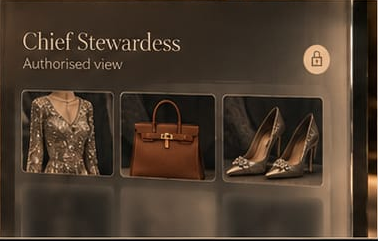
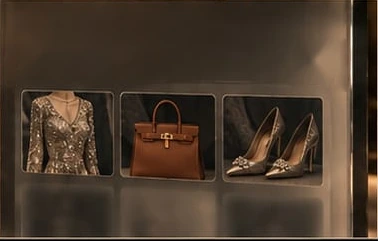
System page: privacy fixes, plain-language screen-reader text, consistent name
- Remove stray '19' slide number above the privacy heading
- Clean the baked-in text, lock and switches from the three privacy step
  images so the live labels sit on clear glass
- Privacy heading holds two lines at every width, sized to its column
- Screen-reader descriptions rewritten without internal language
- Visible body copy spells the name ZALLIA, as on the homepage

Claude-Session: https://claude.ai/code/session_01SkxJSMu7uYT2tgvXoR8Fk1

Changed region(s): [[0.0582, 0.1162, 0.4947, 0.2905], [0.7857, 0.1743, 0.873, 0.3195], [0.9021, 0.1743, 0.9312, 0.3776]]

diff --git a/system.html b/system.html
@@ -40,9 +40,9 @@
 <div class="intro-copy">
 <h1>Your collection.<br/>
 Understood and connected.</h1>
-<p>Discreet sensing connects Zallia to the collection itself. Its intelligence brings together location, care and your preferences—to curate pieces for your plans and coordinate their preparation.</p>
+<p>Discreet sensing connects ZALLIA to the collection itself. Its intelligence brings together location, care and your preferences—to curate pieces for your plans and coordinate their preparation.</p>
 </div>
-<figure aria-label="Illustrative connected collection: a watch in a city residence, tailoring aboard a yacht, and an heirloom at a country estate. Fine paths join their observations into one system; they do not show physical transport or live telemetry." class="system-intro-scene">
+<figure aria-label="Illustrative connected collection: a watch in a city residence, tailoring aboard a yacht and an heirloom at a country estate, joined into one system. The lines show connection, not pieces travelling." class="system-intro-scene">
 <div class="connected-worlds" data-connection-motion="worlds" data-motion-state="static">
 <div class="world-plates"><div class="world-scene world-residence"><img alt="A gold watch in a private city residence." class="" decoding="async" height="2048" loading="eager" sizes="(max-width: 600px) 42vw, (max-width: 1100px) 30vw, 25vw" src="assets/connected/residence-768.webp" srcset="assets/connected/residence-480.webp 480w, assets/connected/residence-768.webp 768w, assets/connected/residence-1024.webp 1024w, assets/connected/residence-1536.webp 1536w" width="1536"/><span aria-hidden="true" class="world-edge"></span></div><div class="world-scene world-yacht"><img alt="Ivory tailoring aboard a yacht, with the sea beyond." class="" decoding="async" height="2048" loading="eager" sizes="(max-width: 600px) 42vw, (max-width: 1100px) 30vw, 25vw" src="assets/connected/yacht-768.webp" srcset="assets/connected/yacht-480.webp 480w, assets/connected/yacht-768.webp 768w, assets/connected/yacht-1024.webp 1024w, assets/connected/yacht-1536.webp 1536w" width="1536"/><span aria-hidden="true" class="world-edge"></span></div><div class="world-scene world-heirloom"><img alt="An heirloom brooch in a country estate overlooking its garden." class="" decoding="async" height="2048" loading="eager" sizes="(max-width: 600px) 42vw, (max-width: 1100px) 30vw, 25vw" src="assets/connected/heirloom-768.webp" srcset="assets/connected/heirloom-480.webp 480w, assets/connected/heirloom-768.webp 768w, assets/connected/heirloom-1024.webp 1024w, assets/connected/heirloom-1536.webp 1536w" width="1536"/><span aria-hidden="true" class="world-edge"></span></div></div>
 <svg aria-hidden="true" class="connection-map" fill="none" viewbox="0 0 1000 640">
@@ -66,9 +66,9 @@ Understood and connected.</h1>
 <p class="section-label">Collection awareness</p>
 <h2 id="physical-title">A collection<br/>
 that keeps up.</h2>
-<p>Discreet sensing, integrated at key points within your spaces, recognises connected pieces as they move. Zallia brings location, recorded handovers and care history into one living record.</p>
+<p>Discreet sensing, integrated at key points within your spaces, recognises connected pieces as they move. ZALLIA brings location, recorded handovers and care history into one living record.</p>
 </div>
-<figure aria-label="Illustrative film: jewellery is lifted from its case; Zallia shows a new observation in the dressing room. Adapted licensed footage and example collection records, not a live installation. The observation does not establish who holds the piece or where it goes next." class="system-visual system-observation awareness-cinema" data-film-state="static" data-scene="connection">
+<figure aria-label="Illustrative film: a piece of jewellery is lifted from its case and Zallia records a new observation in the dressing room. The record shows where the piece was seen, not who holds it." class="system-visual system-observation awareness-cinema" data-film-state="static" data-scene="connection">
 <div class="awareness-shot">
 <img alt="Velvet jewellery cases after a piece has been lifted and the hands have left the view." class="awareness-poster" height="1080" loading="lazy" sizes="(max-width: 600px) 600px, 60vw" src="assets/awareness/settled-1920.webp" srcset="assets/awareness/settled-960.webp 960w, assets/awareness/settled-1920.webp 1920w" width="1920"/>
 <video aria-hidden="true" class="awareness-video" data-desktop="assets/awareness/handling-1080.mp4" data-mobile="assets/awareness/handling-540.mp4" muted="" playsinline="" preload="none" tabindex="-1"></video>
@@ -101,9 +101,9 @@ In view.</strong>
 <p class="section-label">Environmental care</p>
 <h2 id="environment-title">Attentive to<br/>
 its surroundings.</h2>
-<p>Discreet temperature and humidity sensors watch over your collection’s surroundings. When conditions need attention, Zallia brings the change—and its location—to your team.</p>
+<p>Discreet temperature and humidity sensors watch over your collection’s surroundings. When conditions need attention, ZALLIA brings the change—and its location—to your team.</p>
 </div>
-<figure aria-label="Illustrative humidity trend and notification, not live measurements, a universal threshold, an assessment of item condition or automatic climate control." class="system-visual system-setting" data-motion="environment" data-scene="care">
+<figure aria-label="Illustrative example: humidity rising in a private cabinet, and the notification sent to your team." class="system-visual system-setting" data-motion="environment" data-scene="care">
 <img alt="A watch and an heirloom brooch rest in a suede-lined, glass-fronted private cabinet, away from direct sunlight." class="system-photo" decoding="async" height="2160" loading="lazy" sizes="(max-width: 600px) 720px, (max-width: 1100px) 1300px, 100vw" src="assets/system-environment-1600.webp" srcset="assets/system-environment-640.webp 640w, assets/system-environment-960.webp 960w, assets/system-environment-1600.webp 1600w, assets/system-environment-2560.webp 2560w, assets/system-environment-3840.webp 3840w" width="3840"/>
 <span aria-hidden="true" class="environment-sensor"><span class="sensor-housing"></span><span class="sensor-light"></span><span class="sensor-aura"></span><span class="sensor-reflection"></span></span>
 <figcaption class="system-care-note scene-note">
@@ -123,7 +123,7 @@ its surroundings.</h2>
 <p class="section-label">Personal curation</p>
 <h2 id="personal-title">Attuned to<br/>
 your taste.</h2>
-<p>Your taste, plans and collection, considered together. Zallia learns from your choices, drawing on what you love, where each piece is and whether it is ready.</p>
+<p>Your taste, plans and collection, considered together. ZALLIA learns from your choices, drawing on what you love, where each piece is and whether it is ready.</p>
 </div>
 <figure aria-label="Illustrative Zallia recommendation: gold earrings are away for care, so an available favourite watch completes a selection for Friday on board. An example of availability-informed curation, not a live recommendation." class="system-visual system-selection result-setting" data-result="curation" data-scene="selection">
 <img alt="Walnut joinery and an integrated reflective surface in a private dressing room." class="system-photo" decoding="async" height="1440" loading="lazy" sizes="(max-width: 600px) 920px, (max-width: 1100px) 920px, 64vw" src="assets/mirror-integrated-1600.webp" srcset="assets/mirror-integrated-640.webp 640w, assets/mirror-integrated-960.webp 960w, assets/mirror-integrated-1600.webp 1600w, assets/mirror-integrated-2560.webp 2560w" width="2560"/>
@@ -143,9 +143,9 @@ your taste.</h2>
 <p class="section-label">Coordinated preparation</p>
 <h2 id="intelligence-title">From intention<br/>
 to occasion.</h2>
-<p>Your wishes become a considered brief for your team: the pieces, the place and the occasion. Zallia coordinates preparation and brings confirmed readiness back to you.</p>
+<p>Your wishes become a considered brief for your team: the pieces, the place and the occasion. ZALLIA coordinates preparation and brings confirmed readiness back to you.</p>
 </div>
-<figure aria-label="Illustrative owner plan after preparation and packing checks have been recorded by the team. Simplified from MVP plan, preparation-task and packing-check contracts; not the final owner-interface design or live activity." class="system-visual system-prepared result-setting" data-result="plan" data-scene="preparation">
+<figure aria-label="Illustrative plan: your request for a weekend on board, the pieces chosen, and your team&rsquo;s confirmation that they are prepared and packed." class="system-visual system-prepared result-setting" data-result="plan" data-scene="preparation">
 <img alt="A quiet private dressing room overlooking the coast, with walnut cabinetry and stone surfaces." class="system-photo" decoding="async" height="2160" loading="lazy" sizes="(max-width: 600px) 920px, (max-width: 1100px) 920px, 64vw" src="assets/residence-integrated-1600.webp" srcset="assets/residence-integrated-640.webp 640w, assets/residence-integrated-960.webp 960w, assets/residence-integrated-1600.webp 1600w, assets/residence-integrated-2560.webp 2560w, assets/residence-integrated-3840.webp 3840w" width="3840"/>
 <figcaption class="system-prepared-note system-product-result scene-note">
 <div class="result-topline"><span class="result-wordmark">ZALLIA</span><span>Your plans</span></div>
@@ -177,9 +177,8 @@ to occasion.</h2>
 <img alt="A glass collection display in a private dressing room shows watches, jewellery, couture and accessories while restricted records remain obscured." decoding="async" height="633" loading="lazy" src="assets/privacy/privacy-collection.webp" width="928"/>
 </figure>
 <div class="privacy-approved-intro">
-<span aria-hidden="true" class="privacy-approved-number">19</span>
-<h2 id="privacy-title">Your collection.<br/>Your discretion.</h2>
-<p>ZALLIA gives you complete control<br/>of who can see what.</p>
+<h2 id="privacy-title"><span>Your collection.</span> <span>Your discretion.</span></h2>
+<p class="privacy-approved-lede">ZALLIA gives you complete control of who can see what.</p>
 <p>Your collection remains yours. Decide which people can view specific categories, pieces or information, while the rest stays private.</p>
 </div>
 </div>

diff --git a/shared/privacy-artwork.css b/shared/privacy-artwork.css
@@ -5,11 +5,16 @@
 .privacy-approved-hero{position:relative;align-self:center;min-width:0;margin:0;background:#181a19;overflow:hidden}
 .privacy-approved-hero>img{display:block;width:100%;height:auto;object-fit:cover;object-position:center;aspect-ratio:928/633}
 .privacy-approved-intro{display:flex;flex-direction:column;justify-content:center;padding:clamp(42px,4vw,64px) clamp(34px,4.5vw,70px);background:#0b151b}
-.privacy-approved-number{display:block;color:#bca98e;font:400 15px/1.4 var(--sans);margin-bottom:26px}
-.privacy-approved-number::after{content:"";display:block;width:76px;margin-top:11px;border-top:1px solid #bca98e99}
 .privacy-approved h2{margin:0 0 34px;color:#f0ede7;font:400 66px/1.06 var(--serif);letter-spacing:0;text-wrap:balance}
+/* Two lines, as in the approved composition: each line holds together and the size follows the column. */
+.privacy-approved h2 span{display:block;white-space:nowrap}
+@media(min-width:801px){
+  .privacy-approved-intro{container-type:inline-size}
+  .privacy-approved-lead .privacy-approved-intro h2{font-size:clamp(32px,14.6cqi,62px)}
+}
 .privacy-approved-intro p{max-width:35ch;margin:0;color:#d1d2d1;font:400 17px/1.65 var(--sans);letter-spacing:0}
 .privacy-approved-intro p+p{margin-top:21px;font-size:15px}
+.privacy-approved-intro .privacy-approved-lede{max-width:30ch;text-wrap:balance}
 .privacy-approved-steps{list-style:none;width:min(calc(100% - 64px),1370px);margin:0 auto;padding:0;display:grid;grid-template-columns:minmax(0,423px) minmax(0,378px) minmax(0,421px);justify-content:space-between;gap:36px}
 .privacy-approved-step{min-width:0}
 .privacy-example{position:relative;margin:0;overflow:hidden;border:1px solid #b29f826e;background:#171915;aspect-ratio:1.75}
@@ -69,7 +74,6 @@
 @media(max-width:480px){
   .privacy-approved-intro{padding-block:38px 34px}
   .privacy-approved h2{font-size:40px}
-  .privacy-approved-number{margin-bottom:20px}
   .privacy-approved-steps{padding-top:30px}
   .privacy-example-access .access-overlay{right:38%;padding:8px 7px}
   .access-overlay>strong{font-size:10px}
